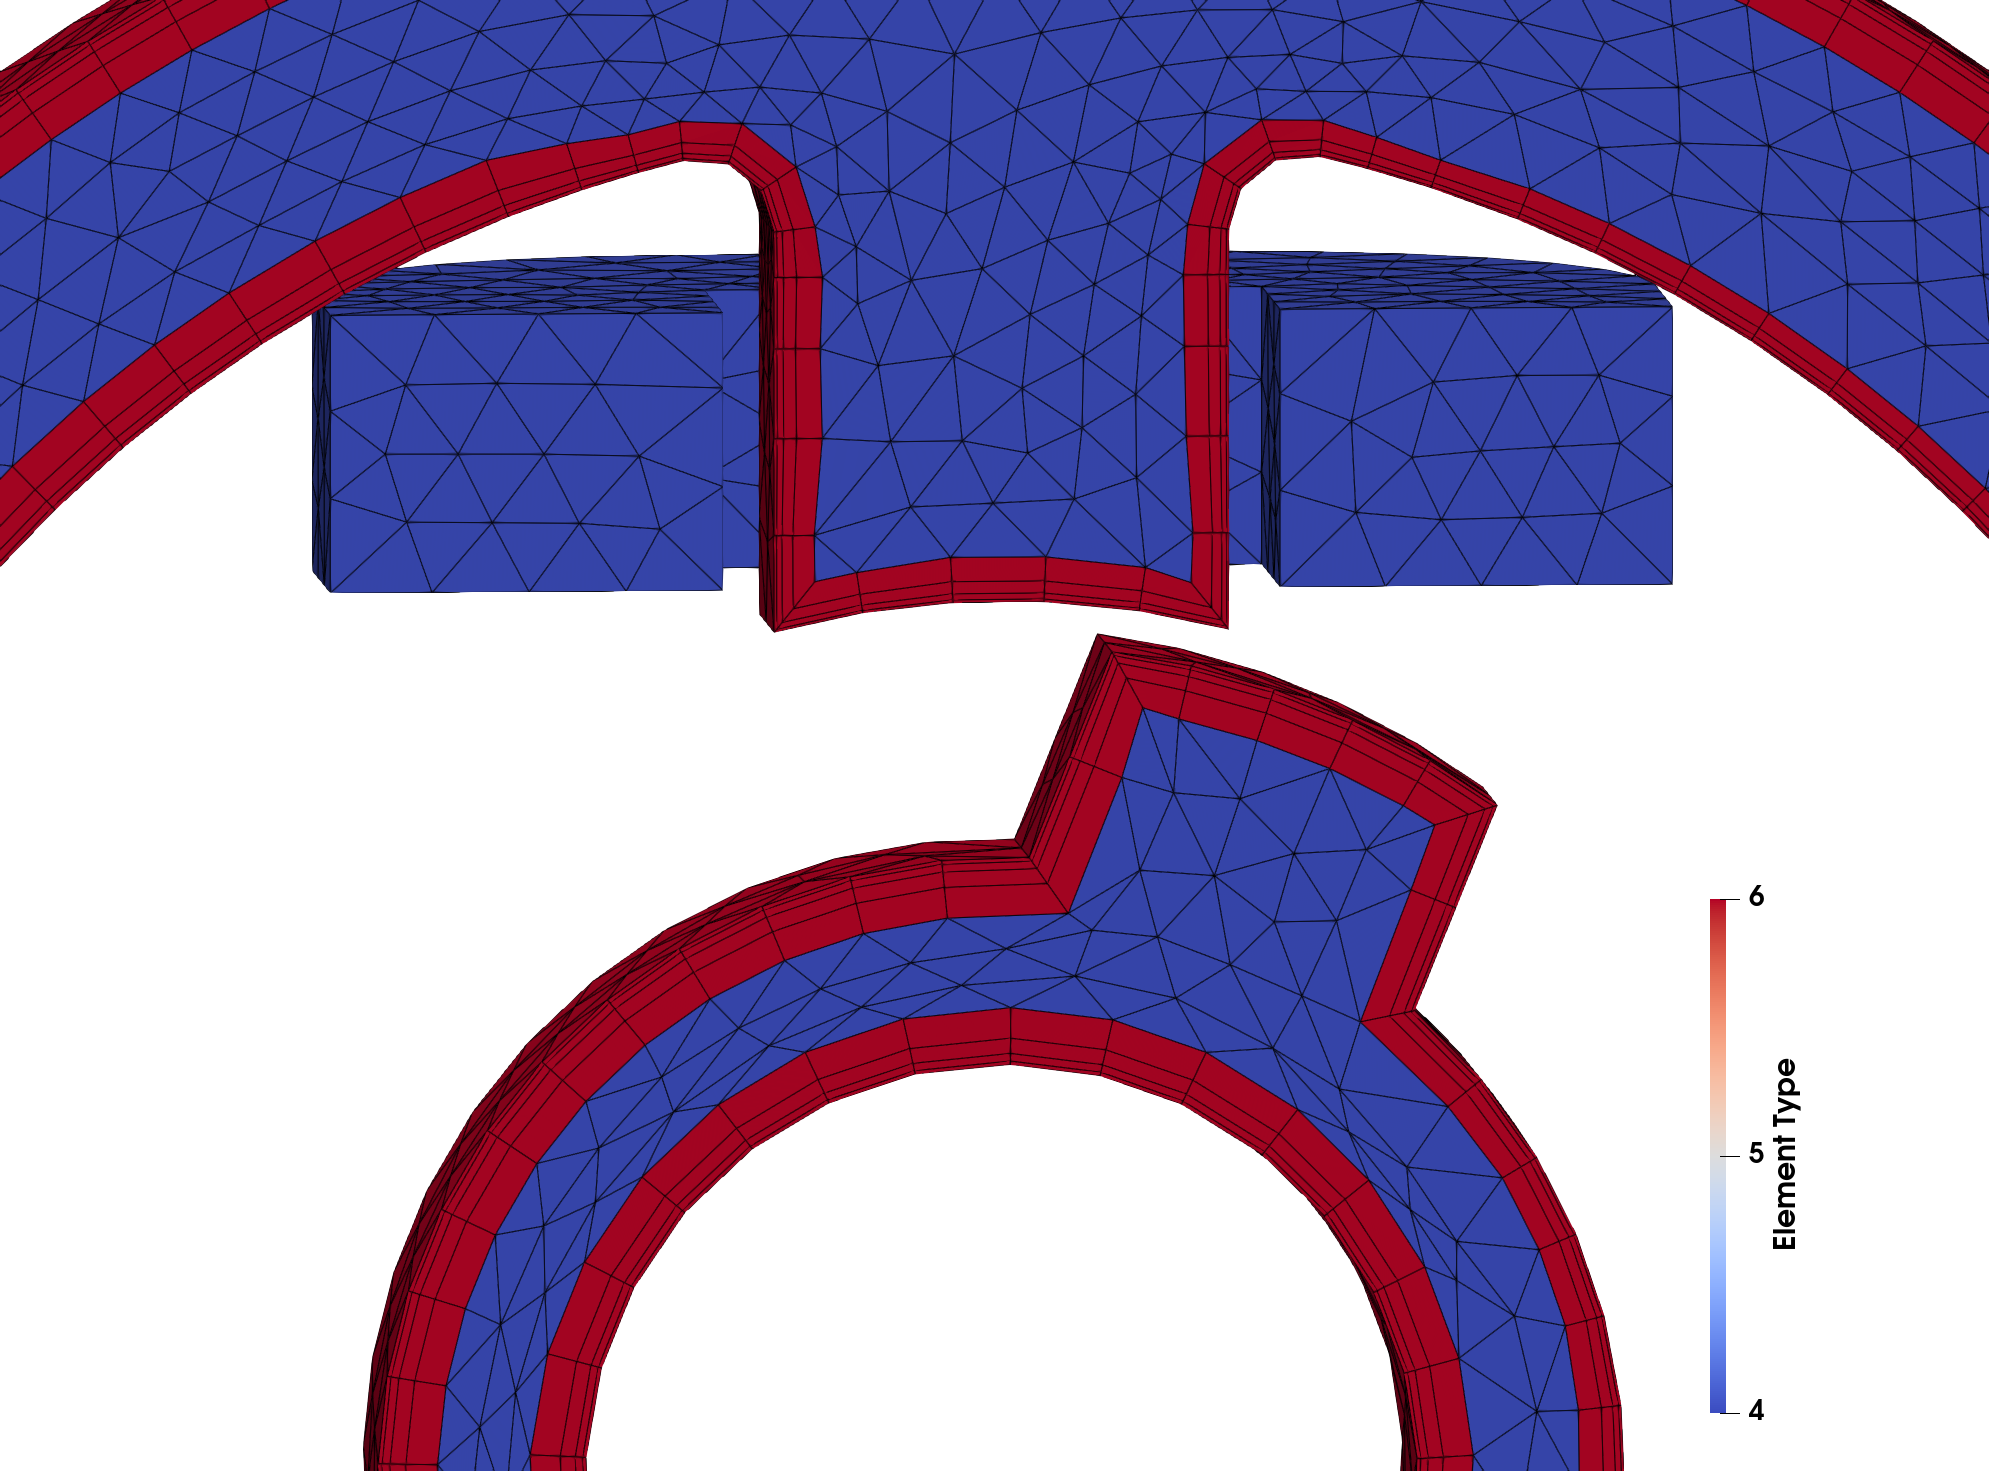
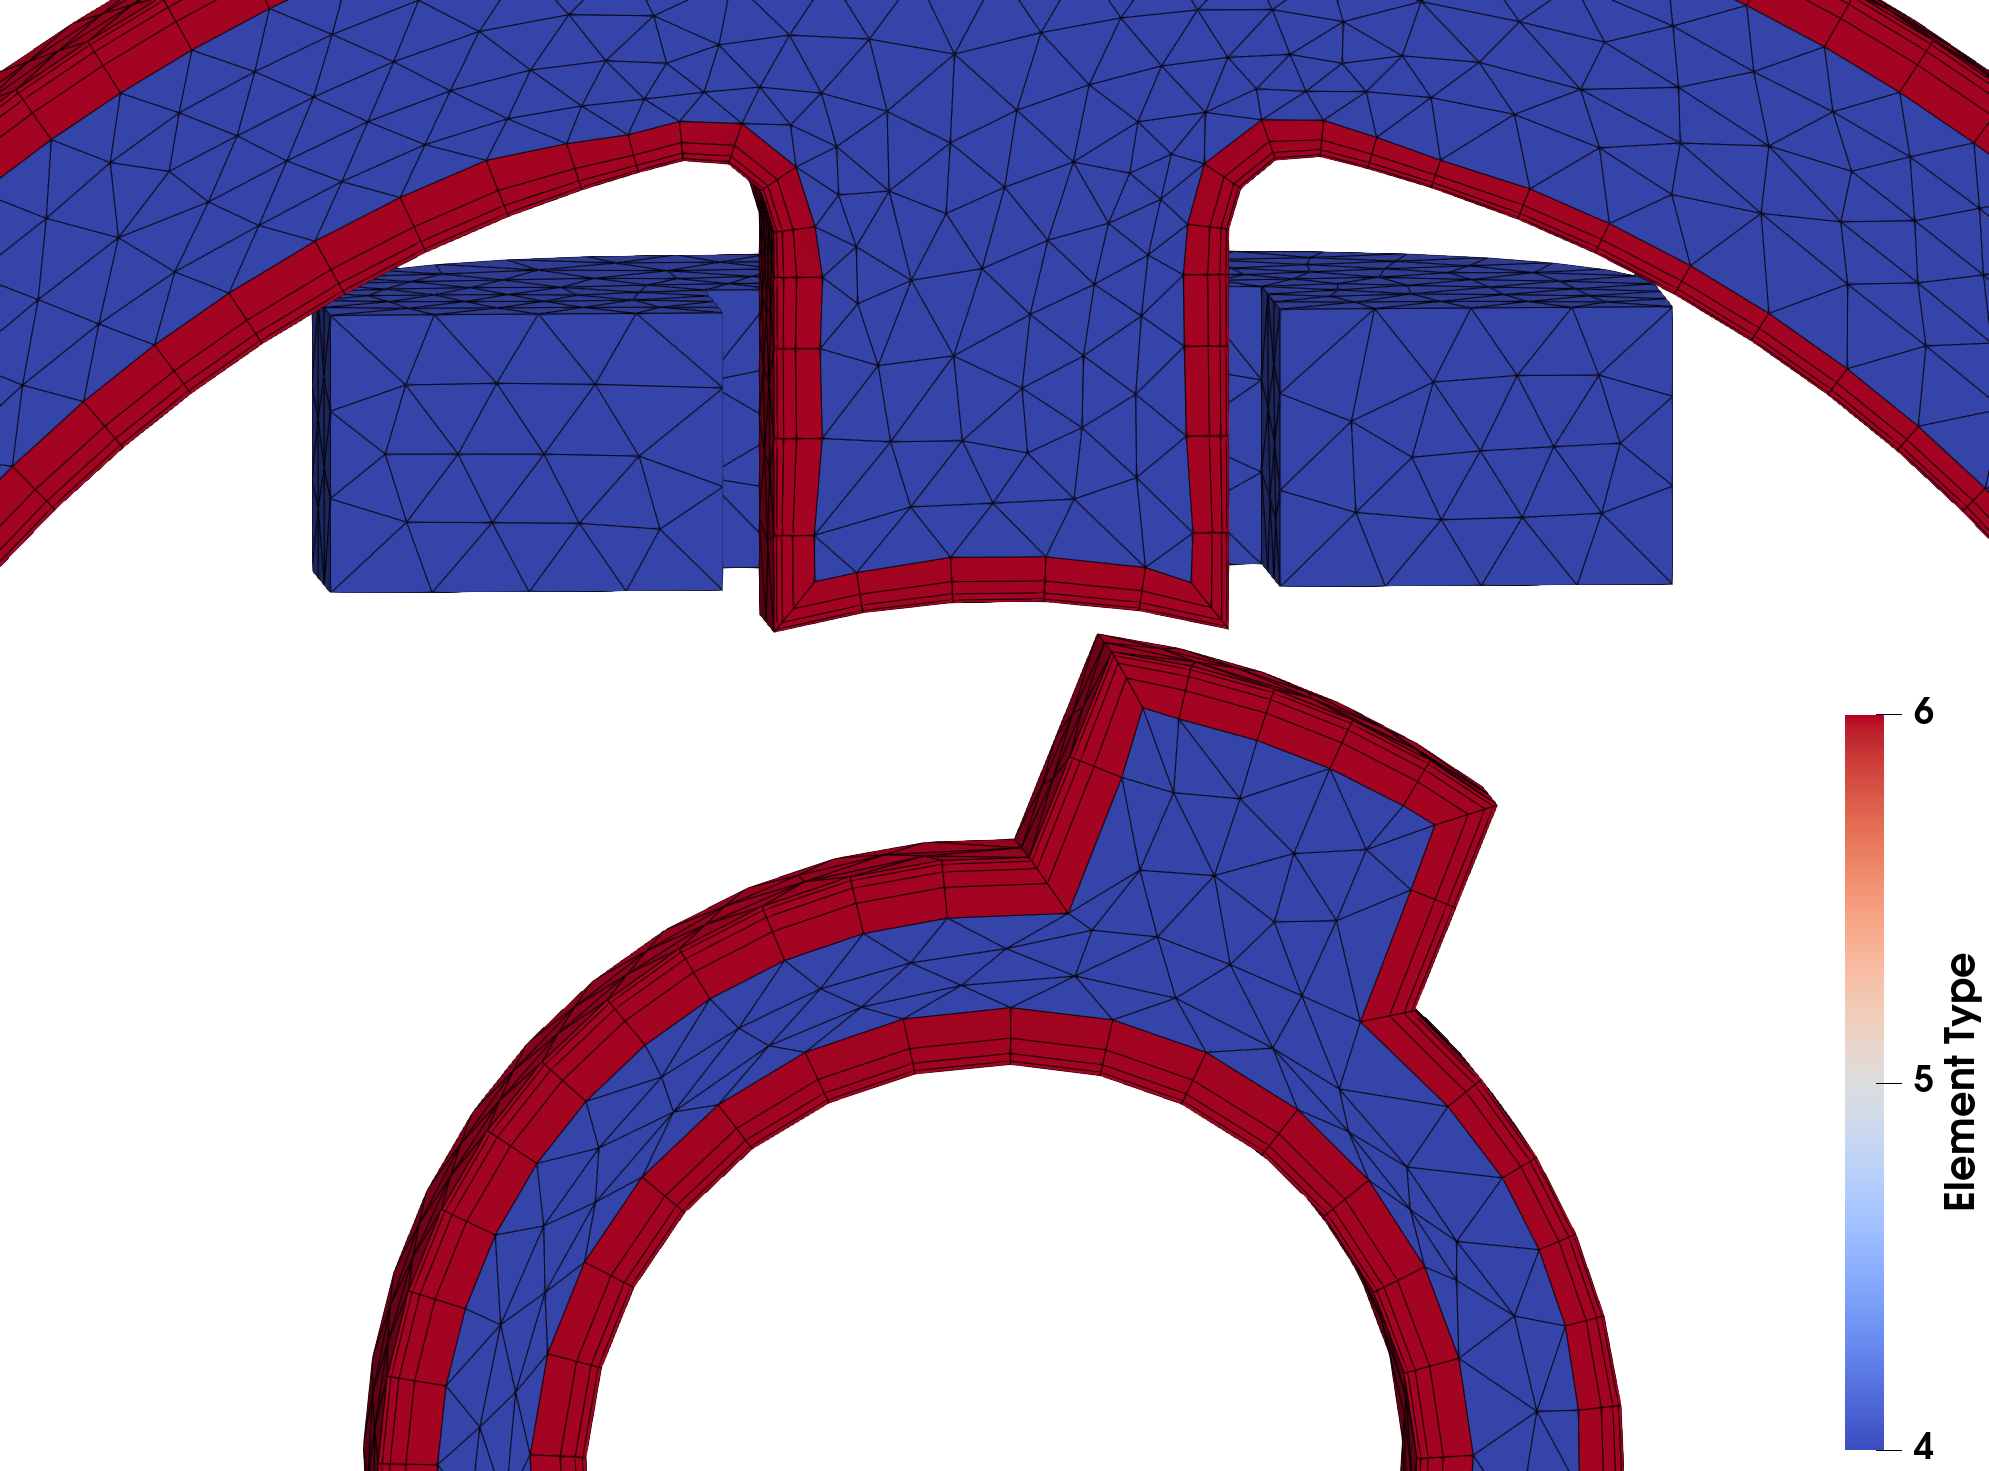
Adjust the element type image in Team24

Changed region(s): [[0.8416, 0.4895, 0.9975, 1.0]]

diff --git a/Electromagnetics/Compumag-Team24-Locked-Rotor/create_scene.py b/Electromagnetics/Compumag-Team24-Locked-Rotor/create_scene.py
@@ -69,23 +69,24 @@ def read_step(index):
 
 
 # Element types: the camera looks from +z at the symmetry plane z = 0, where the prism layers
-# show as quads.
+# show as quads. The color bar sits in the free space to the right of the rotor.
 view = new_view((1989, 1471))
 display = show(read_step(0), view, edges=True)
-color_by(
+bar = color_by(
     display,
     view,
     "Element Type",
     "Element Type",
     [4.0, 5.0, 6.0],  # tetrahedra and prisms
     orientation="Vertical",
-    position=(0.86, 0.04),
-    length=0.35,
-    title_size=30,
-    label_size=28,
+    length=0.5,
+    thickness=40,
+    title_size=40,
+    label_size=36,
 )
+bar.WindowLocation = "Lower Right Corner"
 set_camera(view, (-0.012, 0.015, 0.166), (0, 1, 0), (0.0, 0.045, -0.006), parallel_scale=0.0448)
-save(view, case_dir / "results" / "Scene_ElementType.png", crop=False)
+save(view, case_dir / "results" / "Scene_ElementType.png")
 
 # Animation: the electric current density in front, the coil current and the rotor torque of
 # case.py on the right. The stator sits on the left so that the color bar fits on the right.
